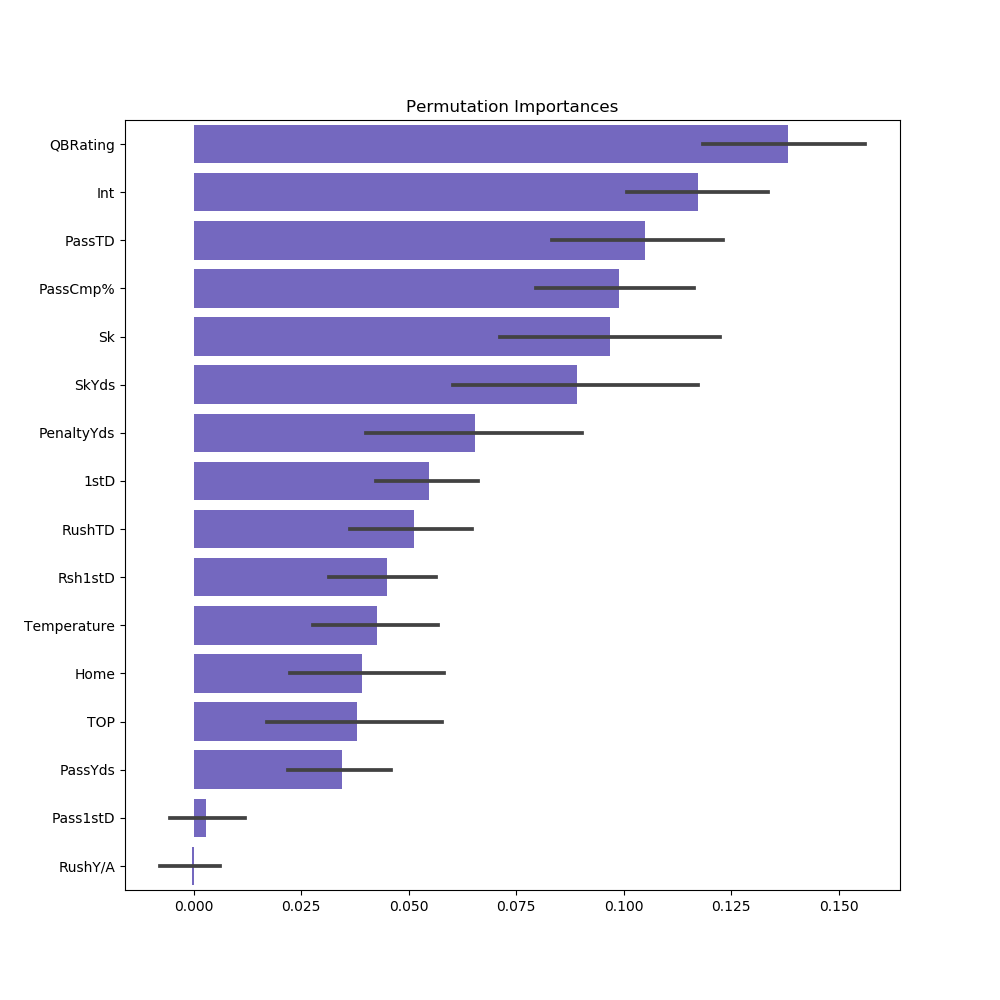
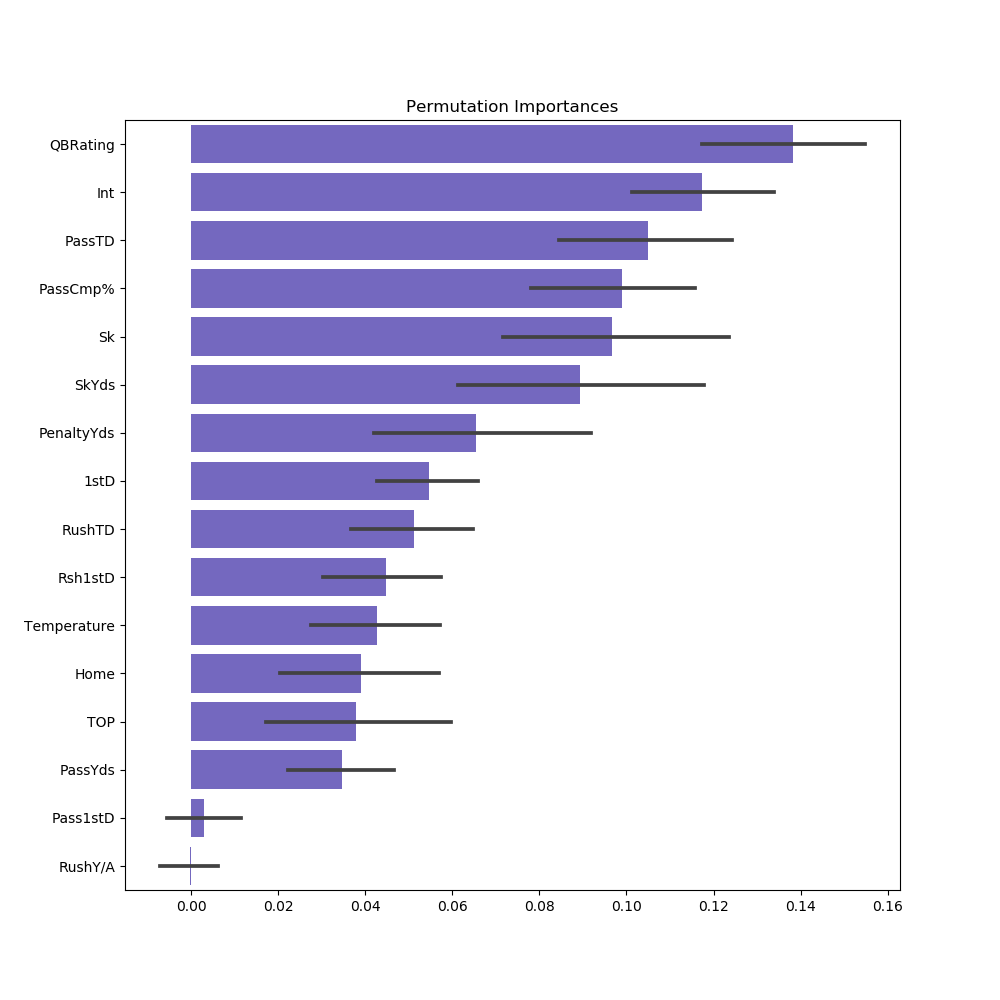
reduce to 10 data in test

diff --git a/run.py b/run.py
@@ -37,8 +37,8 @@ def main(targets):
 
     if "test" in targets:
         # test data
-        train = pd.read_csv("./src/final_data/train.csv")[:50]
-        test = pd.read_csv("./src/test/test.csv")[50:80]
+        train = pd.read_csv("./src/final_data/train.csv")[:10]
+        test = pd.read_csv("./src/test/test.csv")[10:15]
         post_pi = False
     else:
         # train data
